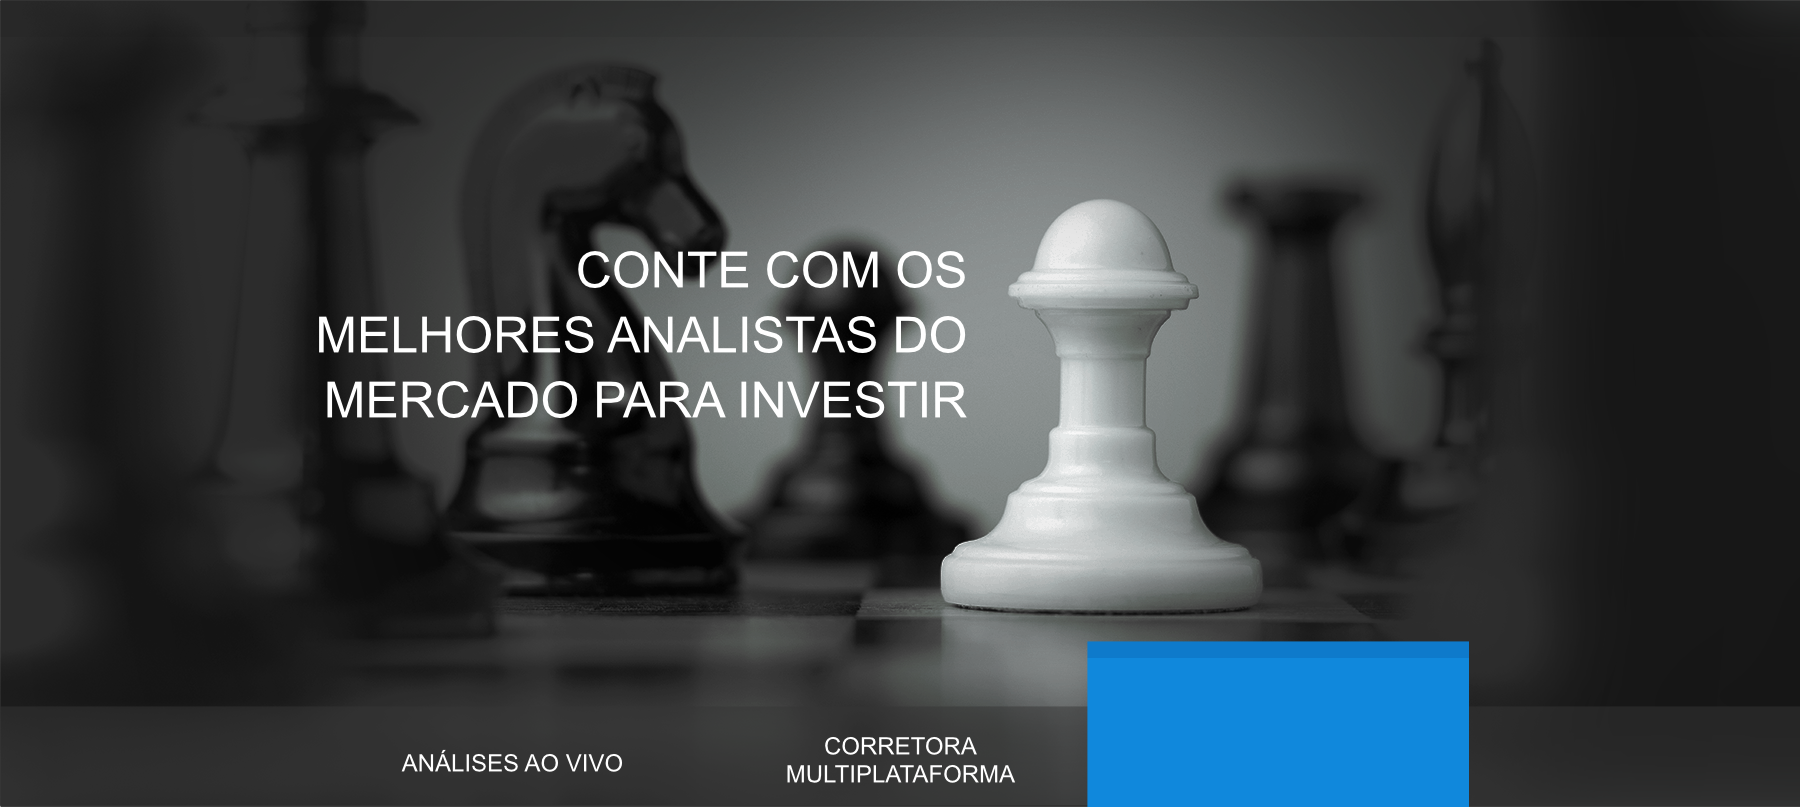
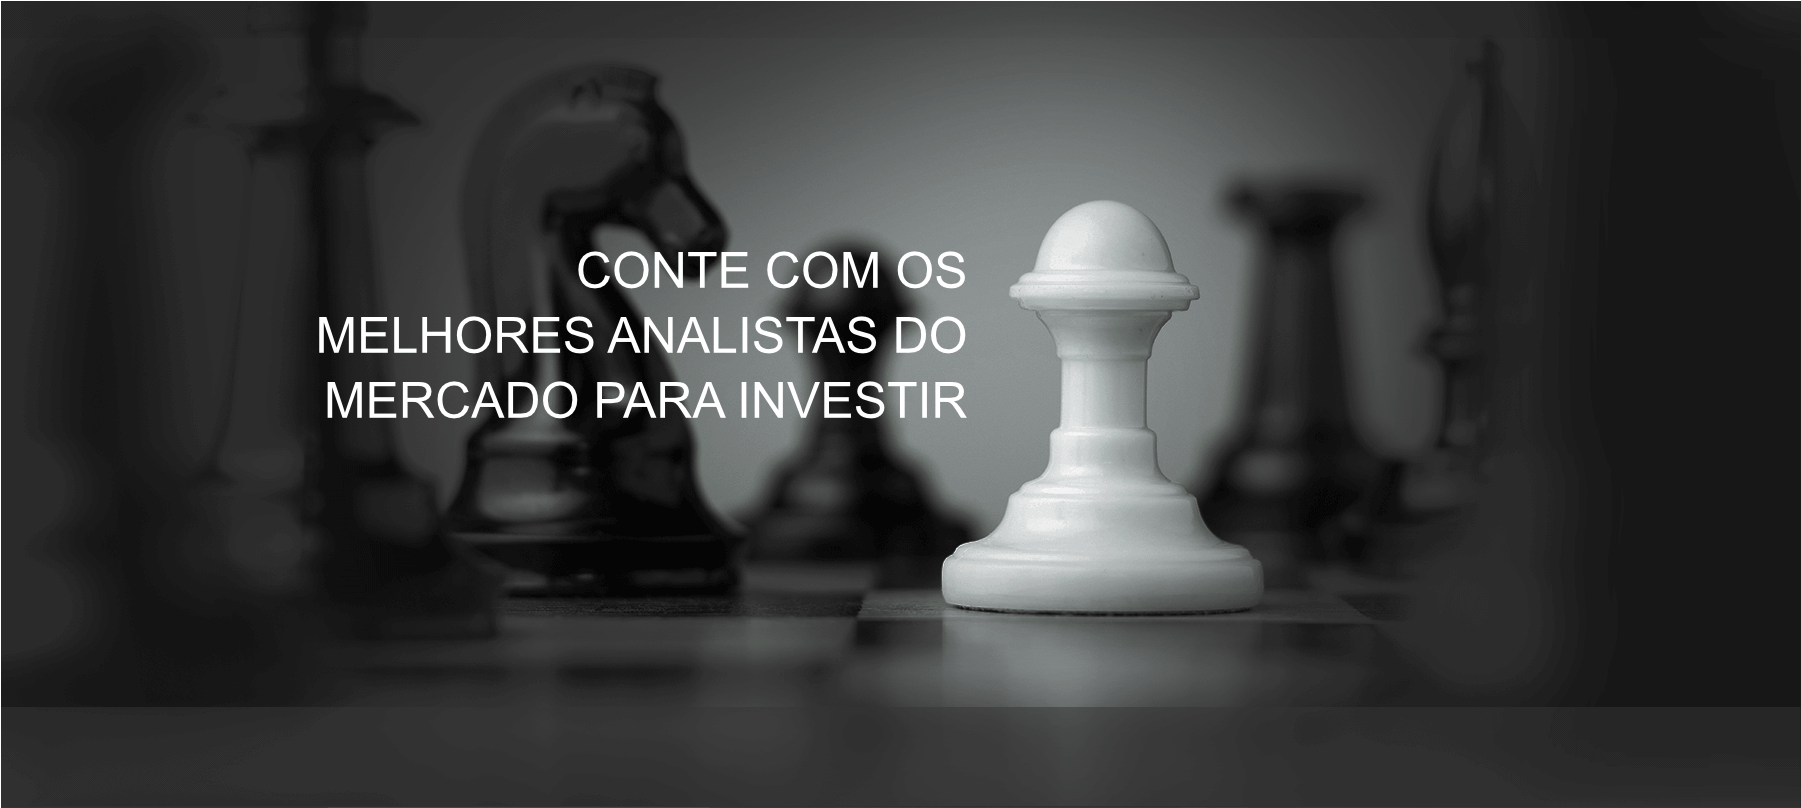
chore: Finalizando Header e Criando as seções

diff --git a/src/sass/_menu.sass b/src/sass/_menu.sass
@@ -1,12 +1,8 @@
-.contact
-    width: 100%
-    position: fixed
-    margin: 0 auto
-    right: 0
-    top: 0
-    text-align: right
+@import '_variables'
+@import '_mixins'
+
 #mainNav 
-    background-color: #1088DC
+    background-color: rgba(40, 40, 40, 0.85)
 .fixed-top 
         position: fixed
         top: 0
@@ -17,6 +13,23 @@
     display: -ms-flexbox
     display: flex
     justify-content: space-between
+    li
+        a
+            color: #ffffff
+            text-decoration: none
+            cursor: pointer
+            &:hover
+                color: #4192CB !important
+    .active
+        color: #4192CB !important  
+              
+    .login
+        @include btn($color-btn-login)
+    .conta
+        @include btn-conta($color-btn-conta)
+
+    .contact
+        display: none
 .fixed-top 
         position: fixed
         top: 0
@@ -29,6 +42,7 @@
   padding-left: 15px
   margin-right: auto
   margin-left: auto
+  margin: 0px auto;
 .collapse:not(.show) 
   display: none
 .nav-link 
@@ -73,6 +87,10 @@
   flex-basis: 100%
   flex-grow: 1
   align-items: center
+  ul
+    margin: 0 auto
+    li
+        padding: 20px 40px 0 0
 .navbar-toggler 
   padding: 0.25rem 0.75rem
   font-size: 1.25rem
@@ -84,7 +102,10 @@
   text-decoration: none
 .navbar-toggler:not(:disabled):not(.disabled) 
   cursor: pointer
-
+.action-btn
+    position: absolute
+    right: 20px
+    top: 20px
 .logo
     background: url(/assets/imgs/genial-logo.png)
     width: 151px
@@ -92,6 +113,15 @@
     background-size: 75%
     background-repeat: no-repeat
     margin-top: 10px
+    margin-left: 20px
+.navbar-toggler
+    position: absolute
+    left: 0px;
+    top: 20px
+.material-icons
+    color: #ffffff
+
+
 @media (min-width: 992px)
     #mainNav 
         padding-bottom: 25px
@@ -100,6 +130,19 @@
         transition: padding-top 0.3s, padding-bottom 0.3s
         border: none
         background-color: transparent
+        .contact
+            width: 100%
+            position: fixed
+            margin: 10px auto
+            right: 0
+            top: 0
+            text-align: right
+            color: #ffffff
+            font-family: Arial, Helvetica, sans-serif
+            font-size: 11px
+            right: 160px
+            font-weight: 100
+            display: block !important
     #mainNav.navbar-shrink 
         padding-top: 0px
         padding-bottom: 0px
@@ -112,6 +155,7 @@
         padding-left: 15px
         margin-right: auto
         margin-left: auto
+        margin: 30px auto;
     .navbar-toggler
         display: none
     .navbar-expand-lg 
@@ -129,15 +173,26 @@
         flex-basis: auto
     .navbar-expand-lg .navbar-toggler 
         display: none
-  
     .logo
         background: url(/assets/imgs/genial-logo.png)
         width: 151px
         height: 40px
-    .contact
-        position: fixed
-        margin: 0 auto
-        right: 0
-        top: 0
-  
+        margin-left: 0px
 
+    .navbar-toggler
+        position: relative
+        left: 0
+    .action-btn
+        position: relative
+        right: 0px;
+        top: 5px;
+    .login
+        top: 5px
+        position: relative
+    .conta
+        top: 5px
+        position: relative
+
+@media (min-width: 0px) and (max-width: 500px)
+    .conta
+        display: none !important

diff --git a/src/pages/home.html b/src/pages/home.html
@@ -1,10 +1,11 @@
 <nav class="navbar navbar-expand-lg navbar-dark fixed-top" id="mainNav">
-        <div class="contact">ATENDIMENTO SP (11) 2137-8191   |   rj (21) 2169-9950   |   RS  (51) 2169-9950</div>
+        <div class="contact"> <strong>ATENDIMENTO SP </strong> (11) 2137-8191   | <strong>RJ</strong> (21) 2169-9950   |  <strong>RS</strong>  (51) 2169-9950</div>
         <div class="container">
           <a class="navbar-brand js-scroll-trigger logo" href="#page-top"></a>
           <button class="navbar-toggler" type="button" data-toggle="collapse" data-target="#navbarResponsive" aria-controls="navbarResponsive" aria-expanded="false" aria-label="Toggle navigation">
-            Menu
-            <i class="fa fa-bars"></i>
+              <i class="material-icons">
+                  menu
+              </i>
           </button>
           <div class="collapse navbar-collapse" id="navbarResponsive">
             <ul class="navbar-nav text-uppercase ml-auto">
@@ -19,6 +20,10 @@
               </li>
             </ul>
           </div>
+          <div class="action-btn">
+              <button class="login">LOGIN</button>
+              <button class="conta">ABRA SUA CONTA</button>
+          </div>
         </div>
       </nav>
 <!-- banner -->
@@ -30,7 +35,35 @@
 <!-- who -->
 <section class="who" id="who">
     <div class="who-content">
-        QUEM SOMOS
+        <img src="/assets/imgs/up.png" class="up" alt="">
+        <h1>QUEM SOMOS</h1>
+        <div class="cols-who">
+          <img src="/assets/imgs/resource.png" alt="">
+          <div>
+              <h2>SEUS RECURSOS EM BOAS MÃOS</h2>
+              <p>Somos o Home Broker da Geração Futuro, corretora com mais de 20 anos de mercado que soma experiência em renda variável com resultados consistentes, tecnologia
+                  e inovação.</p>
+          </div>
+        </div>
+        <div class="cols-who">
+            <img src="/assets/imgs/market.png" alt="">
+            <div>
+                <h2>MERCADO SEM COMPLICAÇÃO</h2>
+                <p>Acesso a notícias, cotações, análises ao vivo, fóruns com analistas e recomendações de compra e venda, além de ferramentas
+                    importantes para o investidor tomar as
+                     melhores decisões.</p>
+            </div>
+        </div>
+        <div class="cols-who">
+            <img src="/assets/imgs/investment.png" alt="">
+            <div>
+                <h2>INVISTA DE ONDE ESTIVER</h2>
+                <p>A praticidade do autosserviço com a
+                    tranquilidade do atendimento real.
+                   Nossas plataformas foram desenvolvidas
+                   para garantir agilidade e facilidade para investirde onde estiver.</p>
+            </div>
+        </div>
     </div>
   </section>
   <!-- services -->

diff --git a/src/sass/_mixins.sass b/src/sass/_mixins.sass
@@ -1,0 +1,55 @@
+@mixin title()
+    display: inline-block
+    margin: 20px 20px 20px 20px
+    font-size: 20px
+@mixin btn($color)
+    color: #fff
+    background-color: $color
+    border-color: $color
+    display: inline-block
+    font-weight: 100
+    text-align: center
+    white-space: nowrap
+    vertical-align: middle
+    -webkit-user-select: none
+    -moz-user-select: none
+    -ms-user-select: none
+    user-select: none
+    border: 1px solid transparent
+    padding: .375rem 1.75rem
+    font-size: 0.8rem
+    line-height: 1.5
+    border-radius: .10rem
+    transition: color .15s
+    height: 38px
+    cursor: pointer
+    &:hover
+        background-color: #70B1D9 !important
+
+@mixin btn-conta($color)
+    color: $color
+    background-color: transparent
+    border-color: $color
+    display: inline-block
+    font-weight: 100
+    text-align: center
+    white-space: nowrap
+    vertical-align: middle
+    -webkit-user-select: none
+    -moz-user-select: none
+    -ms-user-select: none
+    user-select: none
+    border: 1px solid transparent
+    padding: .375rem .75rem
+    font-size: 0.8rem
+    line-height: 1.5
+    border-radius: .10rem
+    -webkit-transition: color .15s
+    transition: color .15s
+    border: 2px solid $color
+    height: 38px
+    margin-left: 10px
+    cursor: pointer
+    &:hover
+        border-color: #E953AB !important
+        color: #E953AB !important

diff --git a/src/pages/home.sass b/src/pages/home.sass
@@ -6,13 +6,51 @@
     background: url(/assets/imgs/banner1.png)
     width: 100%
     margin: 0 auto
-    height: 1020px
+    height: 808px
     position: relative
     background-size: cover
     background-position: center
-.who-content
+.who
+    background-color: #EEEEEE
     height: 640px
-    color: #3168B8
+    .who-content
+    .up
+        position: absolute
+        margin: 10px auto
+        right: 200px
+        cursor: pointer
+    h1
+        color: $color-base
+        margin: 50px auto
+        position: relative
+        display: inline-block
+        text-align: center
+        width: 100%
+        font-family: Arial, Helvetica, sans-serif
+        font-weight: 100
+        font-size: 50px
+    .cols-who
+        margin: 0 auto
+        position: relative
+        width: 23%;
+        padding: 50px;
+        display: inline-block
+        text-align: center
+        font-family: Arial, Helvetica, sans-serif
+        img
+            text-align: center
+            margin: 0 auto
+            display: inline-block
+        h2
+            font-size: 22px
+            font-weight: 100
+            color: $color-base
+            width: 70%;
+            margin: 10px auto;
+        p
+            font-size: 15px
+            font-weight: 100
+            color: #6B6D70  
 .services
     height: 680px
     color: #3168B8

diff --git a/src/sass/_styles.sass b/src/sass/_styles.sass
@@ -1,38 +1,25 @@
-@import '_variables';
+@import '_variables'
 
 //Estilos Globais
-:host{
+:host
     //Mantendo Layout default para desktop
-    @media #{$mq-desktop} { 
-        div.content{
+    @media #{$mq-desktop} 
+        div.content
             width: 95%;
             margin: 100px auto;
             position: relative;
-        }
-    } 
     //Layout Mobile se Baseando em min 1px - max 500px
     @media #{$mq-mobile-min} and #{$mq-mobile-max} {
        
-        .bg-fundo {
+        .bg-fundo 
             width: 80% !important;
             min-height: 550px !important;
-        }
-        .card {
+        .card 
             width: 80% !important;
-        }
-        .btn-acao {
+        .btn-acao
             margin: 10px auto !important;
-        }
-        select {
+        select
             width: 80% !important;
-        }
-    
-    } 
-    @media #{$mq-desktop-max} { 
-        
-    }
-   
-     
-      
-}  
+    @media #{$mq-desktop-max}
+
 

diff --git a/src/sass/_variables.scss b/src/sass/_variables.scss
@@ -1,13 +1,13 @@
-$cor-padrao:blue;
+$color-btn-login: #4192CB;
+$color-btn-conta: #D71B84;
 $color-cards:#fff;
 $size-cards-dados:33%;
 $color:#bb0505;
-
+$color-base: #4192CB;
 $mq-mobile: "(max-width: 980px)";
 $mq-desktop: "(min-width:800px)";
 $mq-desktop-max: "(max-width:800px)";
 $mq-desktop-min: "(min-width:500px)";
-
 $mq-mobile-min: "(min-width:1px)";
 $mq-mobile-max: "(max-width: 500px)";
 
